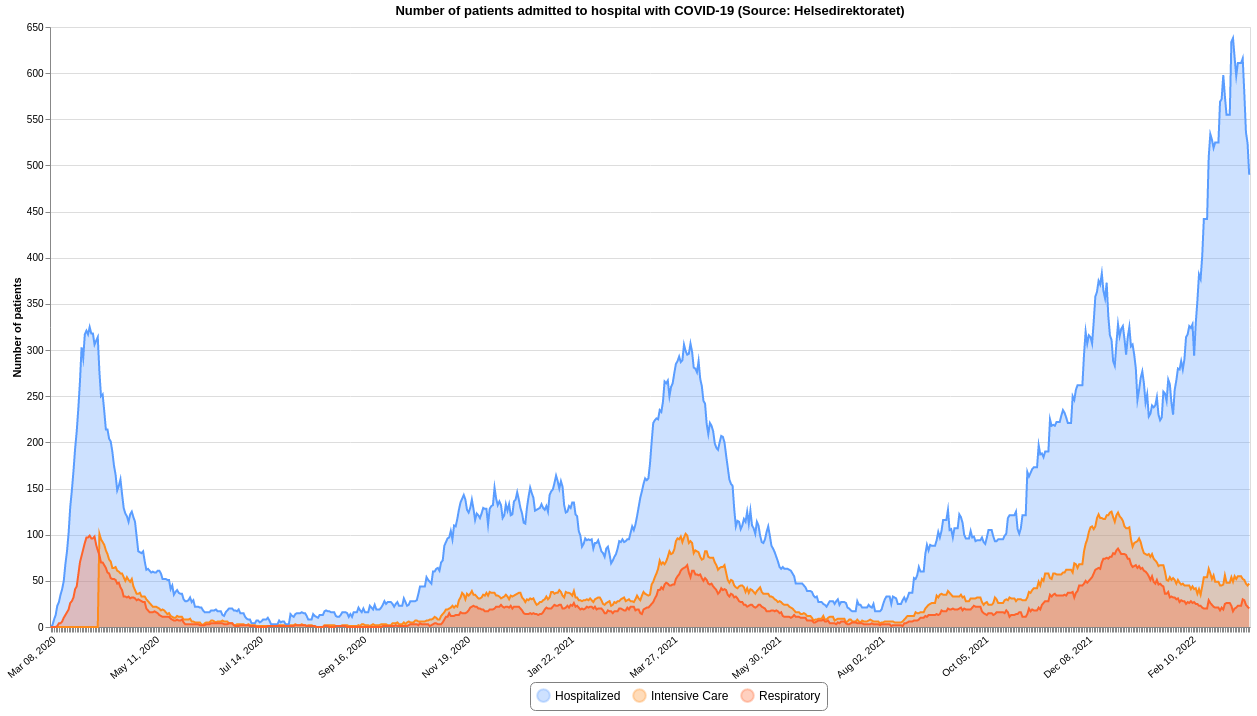
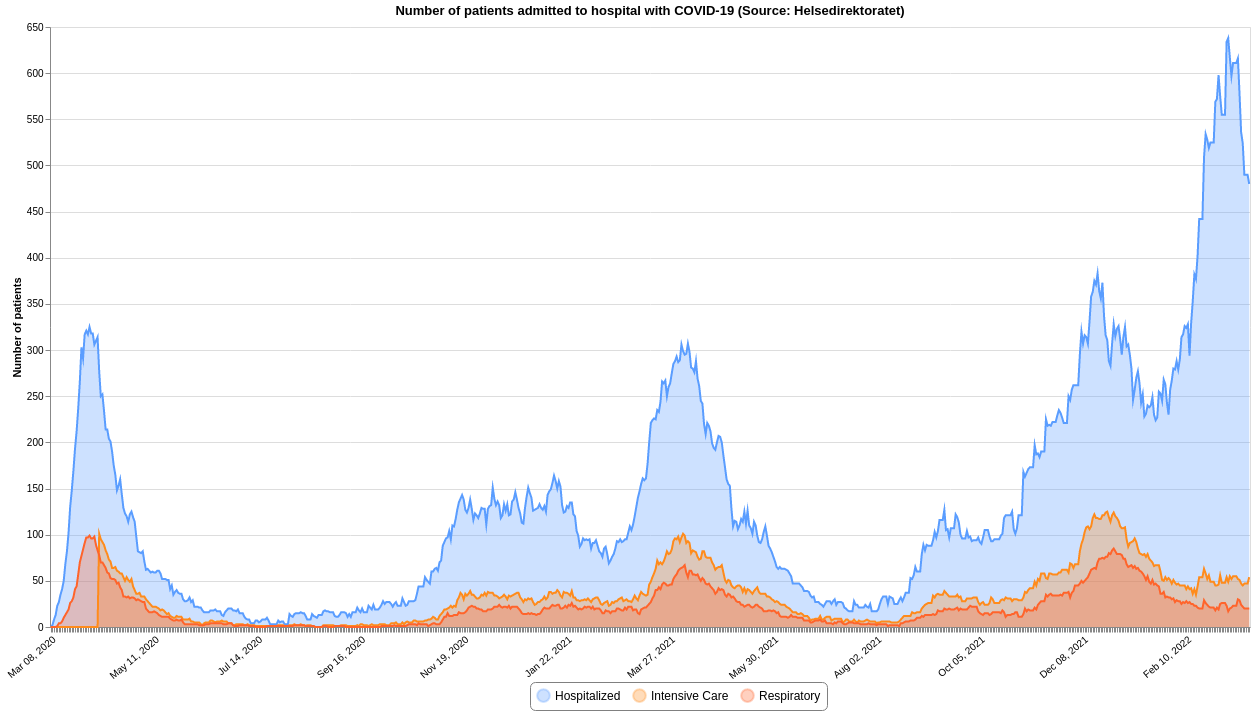
Updated 2022-03-21 15:41

diff --git a/README.md b/README.md
@@ -12,7 +12,7 @@ This repository contains datasets of daily time-series data related to COVID-19 
 | :--- | :--- | :--- | :--- | :--- |
 |[Confirmed](#confirmedcsv)|FHI / MSIS|2022-03-21 15:20:43+01:00|[<center>csv</center>](https://raw.githubusercontent.com/frefrik/covid19norge-data/main/data/confirmed.csv)|[<center>preview</center>](data/confirmed.csv)|
 |[Dead](#deadcsv)|FHI|2022-03-16 13:20:50+01:00|[<center>csv</center>](https://raw.githubusercontent.com/frefrik/covid19norge-data/main/data/dead.csv)|[<center>preview</center>](data/dead.csv)|
-|[Hospitalized](#hospitalizedcsv)|Helsedirektoratet|2022-03-18 12:50:48+01:00|[<center>csv</center>](https://raw.githubusercontent.com/frefrik/covid19norge-data/main/data/hospitalized.csv)|[<center>preview</center>](data/hospitalized.csv)|
+|[Hospitalized](#hospitalizedcsv)|Helsedirektoratet|2022-03-21 15:40:47+01:00|[<center>csv</center>](https://raw.githubusercontent.com/frefrik/covid19norge-data/main/data/hospitalized.csv)|[<center>preview</center>](data/hospitalized.csv)|
 |[Tested](#testedcsv)|FHI|2022-03-21 13:00:47+01:00|[<center>csv</center>](https://raw.githubusercontent.com/frefrik/covid19norge-data/main/data/tested.csv)|[<center>preview</center>](data/tested.csv)|
 |[Tested Lab](#tested_labcsv)|FHI|2022-03-21 13:20:49+01:00|[<center>csv</center>](https://raw.githubusercontent.com/frefrik/covid19norge-data/main/data/tested_lab.csv)|[<center>preview</center>](data/tested_lab.csv)|
 |[Transport](#transportcsv)|FHI|2021-09-24 23:10:46+02:00|[<center>csv</center>](https://raw.githubusercontent.com/frefrik/covid19norge-data/main/data/transport.csv)|[<center>preview</center>](data/transport.csv)|
